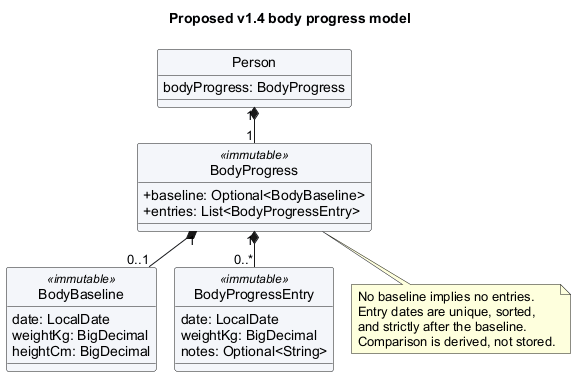
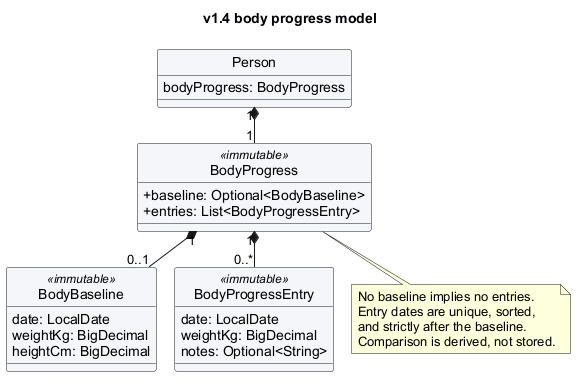
Synchronize body progress documentation with the v1.4 implementation
Describe the delivered commands, strict persistence and centre-panel integration. Refresh UML status and remove planned availability labels. Keep shared feature numbering unchanged for Win to consolidate.

Refs #201, #197.

Changed region(s): [[0.2769, 0.0311, 0.7077, 0.0622]]

diff --git a/docs/DeveloperGuide.md b/docs/DeveloperGuide.md
@@ -281,17 +281,17 @@ Parsers require each mandatory prefix exactly once, reject repeated or unknown p
 
 The client card shows a single membership tag reading `NAME Member: COUNT sessions left`, with ` [expires YYYY-MM-DD]` appended when an expiry exists. The tag wraps within the card, so a long plan name does not push the balance or expiry outside it. An unassigned client shows no membership tag. Command messages and error behavior follow the [Feature 7 specification](featureSpecs.md#feature-7-membership-plan).
 
-### [Planned v1.4] Body progress tracker
+### Body progress tracker
 
-**Design status:** This is a proposed implementation for the body-progress assignment, not a description of code already merged. The [Feature 10 contract](featureSpecs.md#feature-10-body-progress-tracker) and [planned UG section](UserGuide.md#body-progress-tracker-planned-for-v14) define user-visible behavior. Keep these documents synchronized as implementation increments land. The four required capabilities are baseline measurements, dated weight/notes, complete history and latest-to-baseline comparison. Progress-entry correction/deletion is part of the same feature.
+Implemented for v1.4. The [feature contract](featureSpecs.md#feature-10-body-progress-tracker) and [User Guide](UserGuide.md#body-progress-tracker) define user-visible behavior. The tracker supports baseline measurements, dated weight/notes, complete history, latest-to-baseline comparison, and correction/deletion. Feature numbering remains unchanged here pending the shared specification consolidation by the document owner.
 
 #### Ownership and invariants
 
-Proposed model names below are design targets. Each `Person` owns one immutable `BodyProgress` aggregate, initially empty. An optional `BodyBaseline` contains `LocalDate date`, `BigDecimal weightKg` and `BigDecimal heightCm`. Each immutable `BodyProgressEntry` contains a date, exact weight and optional notes. The aggregate defensively copies its entry collection and exposes an unmodifiable list in date order.
+Each `Person` owns one immutable `BodyProgress` aggregate, initially empty. An optional `BodyBaseline` contains `LocalDate date`, `BigDecimal weightKg` and `BigDecimal heightCm`. Each immutable `BodyProgressEntry` contains a date, exact weight and optional notes. The aggregate defensively copies its entry collection and exposes an unmodifiable list in date order.
 
-<img src="images/BodyProgressClassDiagram.png" alt="Proposed body progress model: a Person owns a BodyProgress aggregate with an optional baseline and dated entries" width="760" />
+<img src="images/BodyProgressClassDiagram.png" alt="Body progress model: a Person owns a BodyProgress aggregate with an optional baseline and dated entries" width="760" />
 
-The proposed model class diagram deliberately omits unrelated `Person` fields. It does not replace the shared Model diagram maintained by other members.
+The model class diagram deliberately omits unrelated `Person` fields. It does not replace the shared Model diagram maintained by other members.
 
 Aggregate invariants:
 
@@ -302,21 +302,21 @@ Aggregate invariants:
 * Baseline replacement retains entries and must validate its candidate date against **all** retained entries. Never silently drop or re-date history.
 * Same-date `bodylog` replaces the complete entry, including clearing notes when omitted. An exact duplicate is rejected before replacement. `bodydelete` cannot remove the baseline.
 
-Prefer `Person.withBodyProgress(updated)` as the body mutation path; it copies every unrelated field. Update all other client reconstruction/copy paths to preserve this aggregate, including test builders and later membership/health/workout-history fields. Include it in full value equality/hashCode, but do not change client identity solely because measurements changed. Deleting/clearing clients removes their owned aggregates; catalog operations preserve them.
+`Person.withBodyProgress(updated)` copies every unrelated field. Existing client reconstruction paths and `PersonBuilder` retain the tracker. Full person equality/hashCode include it; client identity does not depend on measurements. Deleting/clearing clients removes their owned aggregates; catalog operations preserve them.
 
 #### Commands, parsing and UI requests
 
-Proposed command/parser pairs are `BodyBaselineCommand` / `BodyBaselineCommandParser` (`bodybase`), `BodyLogCommand` / `BodyLogCommandParser` (`bodylog`), `BodyHistoryCommand` / `BodyHistoryCommandParser` (`bodyhistory`), `BodyCompareCommand` / `BodyCompareCommandParser` (`bodycompare`) and `BodyDeleteCommand` / `BodyDeleteCommandParser` (`bodydelete`). `BodyHistoryCommand` and `BodyCompareCommand` are queries and leave domain data unchanged; the three mutation classes create complete candidates before `Model#setPerson`.
+Command/parser pairs are `BodyBaselineCommand` / `BodyBaselineCommandParser` (`bodybase`), `BodyLogCommand` / `BodyLogCommandParser` (`bodylog`), `BodyHistoryCommand` / `BodyHistoryCommandParser` (`bodyhistory`), `BodyCompareCommand` / `BodyCompareCommandParser` (`bodycompare`) and `BodyDeleteCommand` / `BodyDeleteCommandParser` (`bodydelete`). `BodyHistoryCommand` and `BodyCompareCommand` are queries and leave domain data unchanged; the three mutation classes create complete candidates before `Model#setPerson`.
 
-Use one reusable body parsing helper for index, strict decimal syntax, dates, notes and prefix validation. Reserve alphabetic `PREFIX/` tokens only at argument boundaries; preserve `km/day` inside notes. Reject duplicate/unknown prefixes and raw nonprintable characters before normalization. Do not lowercase values or collapse notes' internal spacing. Recognize only the command's allowed prefixes. Tests must use the public command router as well as individual parsers so trimming at the router cannot hide a trailing newline.
+The reusable `BodyParserUtil` and `BodyMeasurements` helpers handle index, strict decimal syntax, dates, notes and prefix validation. Reserve alphabetic `PREFIX/` tokens only at argument boundaries; preserve `km/day` inside notes. Reject duplicate/unknown prefixes and raw nonprintable characters before normalization. Do not lowercase values or collapse notes' internal spacing. Recognize only the command's allowed prefixes. Tests must use the public command router as well as individual parsers so trimming at the router cannot hide a trailing newline.
 
 Date checks use an injectable `Clock` with the local zone, not fixed test dates or a global mutable clock. Validate future-date restrictions against the execution date (including if midnight passes after parsing). Load checks use the same clock policy. The model also validates structural, measurement and cross-date invariants independently of parsers. Exceptions handle bad user/stored input; assertions are only appropriate for internal assumptions after validation.
 
 Resolve indexes against `getFilteredPersonList()` exactly once before mutation. Do not reset the predicate to show all clients. `bodyhistory` and `bodycompare` should select/reveal the requested client even for valid empty-data states; invalid indexes must not change the UI.
 
-Proposed UI handoff: extend `CommandResult` with an optional typed `BodyProgressViewRequest` containing the resolved target `Person` and section (`HISTORY` or `COMPARISON`). Mutations request the updated client; queries request the existing client. Preserve the existing constructors/defaults and include the request in result equality/hashCode/tests. This is a **new integration point to implement**, not an existing API. `MainWindow` consumes the request only after `LogicManager.execute` returns successfully, selects the target in `PersonListPanel`, and reveals the section. Do not pass the numeric index on for later re-resolution against a potentially changed list, and do not mutate domain data to implement selection.
+`CommandResult` carries an optional typed `BodyProgressViewRequest` containing the resolved target `Person` and section (`HISTORY` or `COMPARISON`). Mutations request the updated client; queries request the existing client. Existing constructors retain an empty request by default; result equality and hashCode include the optional request. `MainWindow` consumes the request only after `LogicManager.execute` returns successfully, selects the target in `PersonListPanel`, and reveals the section. Do not pass the numeric index on for later re-resolution against a potentially changed list, and do not mutate domain data to implement selection.
 
-Show baseline, all entries and comparison in the selected client's existing scrollable details area. Observe selection and client replacement so every mutation, including deletion of the latest entry, refreshes the derived display. Clear stale rows, notes and comparison fields on selection changes. Wrap maximum-length notes and constrain controls to available width; use vertical scrolling rather than `sizeToScene()`/automatic window resizing. Coordinate placement with the separate UI-redesign PR without deferring the functional v1.4 view.
+`BodyProgressPanel` renders baseline, all entries and comparison in the centre column's `ClientDetailPanel`. The body card scrolls internally, and the centre details column scrolls when its content exceeds the available height. `MainWindow` observes selection/client replacement and consumes successful typed requests, then `ClientDetailPanel.revealBodyProgress` reveals the card and requested section. Maximum-length notes wrap within the available width. Selection changes rebuild/clear all body fields; the window never resizes automatically. All five commands are registered in `CommandCatalog` for usage hints and help.
 
 #### Deriving history and comparison
 
@@ -324,7 +324,7 @@ Build the view from the aggregate on demand. Baseline is separate from the progr
 
 #### Persistence schema and backward compatibility
 
-Proposed `JsonAdaptedBodyProgress`, `JsonAdaptedBodyBaseline` and `JsonAdaptedBodyProgressEntry` adapters add a nested `bodyProgress` field to each JSON person. There is no shared catalog or cross-client reference. A populated example is:
+`JsonAdaptedBodyProgress`, `JsonAdaptedBodyBaseline` and `JsonAdaptedBodyProgressEntry` adapters add a nested `bodyProgress` field to each JSON person. There is no shared catalog or cross-client reference. A populated example is:
 
 ```json
 {
@@ -350,19 +350,19 @@ Load then sort valid entries by date. On save, emit the canonical date order. Ro
 
 #### Atomic mutation, rollback and integration
 
-For each mutation, take/retain the existing complete address-book snapshot, validate all requested fields and the proposed aggregate, replace the target client, and let the existing atomic storage boundary commit. On `IOException`, restore the snapshot and report `The body progress change could not be saved. No changes were made.` A body-mutation marker or equivalent mapping can supply this specific message; read-only queries should not be classified as mutations merely to reuse it. Existing application-wide autosave behavior need not change for this feature, but history/comparison must leave all domain data unchanged.
+For each mutation, take/retain the existing complete address-book snapshot, validate all requested fields and the proposed aggregate, replace the target client, and let the existing atomic storage boundary commit. On `IOException`, restore the snapshot and report `The body progress change could not be saved. No changes were made.` `BodyMutationCommand` identifies the three mutations for this message mapping; read-only queries should not be classified as mutations merely to reuse it. Existing application-wide autosave behavior need not change for this feature, but history/comparison must leave all domain data unchanged.
 
-<img src="images/BodyProgressSaveSequence.png" alt="Proposed body mutation sequence with validation, atomic save and rollback on IOException" width="820" />
+<img src="images/BodyProgressSaveSequence.png" alt="Body mutation sequence with validation, atomic save and rollback on IOException" width="820" />
 
-The sequence diagram abstracts parsing and the actual filesystem temporary-file/move implementation. Its `commit` arrow represents the existing `Storage.saveAddressBook` boundary. Return a display request only on successful completion; an exception must not reveal or later persist a rejected candidate. Do not fire irreversible UI/history side effects during command execution before saving.
+The sequence diagram abstracts parsing and the actual filesystem temporary-file/move implementation. Its save arrow represents the existing `Storage.saveAddressBook` boundary. Return a display request only on successful completion; an exception must not reveal or later persist a rejected candidate. Do not fire irreversible UI/history side effects during command execution before saving.
 
 Snapshots, `AddressBook` copy/reset/equality, `Person` builders and any future shared undo/redo history must retain body data together with every other feature. This design adds no independent tracker undo stack; do not claim general undo/redo support until the shared implementation is integrated and tested. Body logging is independent of workout logging and never deducts membership sessions.
 
 #### Implementation increments and validation
 
-Implement and review in increments: (1) immutable model/adapters and legacy/invalid-file tests, (2) baseline/log/delete commands and rollback integration, (3) query/UI handoff and readable display. Keep the feature spec, UG and this DG aligned; remove "planned" labels only after the advertised behavior is actually delivered. These increments together, not just a foundation model, complete the assigned v1.4 scope.
+Implementation commits cover: (1) immutable model/adapters and legacy/invalid-file tests, (2) baseline/log/delete commands and rollback integration, (3) query/UI handoff and readable display. The feature spec, UG and this DG describe the complete runtime companion PR. Merge the runtime PR before this documentation update. These increments together, not just a foundation model, complete the assigned v1.4 scope.
 
-Automated evidence should cover:
+Automated coverage in `BodyProgressTest`, `JsonAdaptedBodyProgressTest`, `BodyProgressIntegrationTest` and `BodyProgressPanelTest` exercises:
 
 * Parser/router boundaries: zero/signed/oversized and filtered indexes; missing/repeated/unknown prefixes; newline preservation; leap/impossible/future dates; decimal syntax/bounds; Unicode code-point note limits and nonprintables.
 * Aggregate transitions: create/replace baseline; invalid correction keeps all entries; create/replace/delete entry; notes clearing; exact duplicates versus case-only note edits; duplicate dates; sorted backdating; independent clients.
@@ -371,7 +371,7 @@ Automated evidence should cover:
 * Fault injection for every mutation form (including both creation and replacement): unchanged model/filter/catalogs and original file bytes, cleaned temporary files, and a later successful command not persisting rejected values.
 * UI selection/refresh, invalid-index stability, maximum-length notes and supported narrow-window layout; confirm target/notes/delta are not stale when switching clients or after failed saves.
 
-The manual scenarios in the appendix complement automated tests; they are planned acceptance checks, not evidence of tests already run.
+The manual scenarios in the appendix complement automated tests. Runtime validation includes the full Gradle test/Checkstyle suite and the packaged application smoke test; the UI tests exercise command entry and produce a minimum-window screenshot for visual inspection.
 
 ### \[Proposed\] Undo/redo feature
 
@@ -778,7 +778,7 @@ The first increment stores an immutable `TrainingSession` (date/time and locatio
 
     Use case resumes at step 3.
 
-**Use case: UC10 - Record starting body measurements [planned v1.4]**
+**Use case: UC10 - Record starting body measurements**
 
 **MSS**
 
@@ -796,7 +796,7 @@ Use case ends.
 * 3b. The baseline is identical: Fittix reports that it is already current. Use case ends.
 * 3c. Saving fails: Fittix reports the body-save error and retains the previous model and file. Use case ends.
 
-**Use case: UC11 - Record or correct dated body progress [planned v1.4]**
+**Use case: UC11 - Record or correct dated body progress**
 
 **Precondition:** The client has a body baseline.
 
@@ -818,7 +818,7 @@ Use case ends.
 * 4a. Saving fails: Fittix reports the body-save error and restores the previous model/file. Use case ends.
 * Correction alternative: Trainer deletes a progress entry by client/date; Fittix preserves the baseline and other entries and refreshes the latest comparison after saving. A missing entry or an attempt to delete the baseline is rejected. The same save-failure guarantee applies.
 
-**Use case: UC12 - View complete body-progress history [planned v1.4]**
+**Use case: UC12 - View complete body-progress history**
 
 **MSS**
 
@@ -833,7 +833,7 @@ Use case ends.
 * 2a. No baseline exists: Fittix shows the selected client's missing-baseline state. Use case ends.
 * 2b. Only a baseline exists: Fittix shows it and the no-progress state. Use case ends.
 
-**Use case: UC13 - Compare latest body progress with the baseline [planned v1.4]**
+**Use case: UC13 - Compare latest body progress with the baseline**
 
 **MSS**
 
@@ -1085,9 +1085,9 @@ Use a disposable address book with at least two clients.
 8. Run `addmem n/Platinum p/200 s/40`, then `clear`, then `view mem`.<br>
    Expected: `clear` deletes all clients, but the Platinum plan is still listed, confirming that clearing clients does not delete membership plans.
 
-### Body progress tracker [planned v1.4 acceptance checks]
+### Body progress tracker acceptance checks
 
-Run these once the feature is implemented, using disposable data and a correct local clock. The fixed dates below are historical; on a controlled test clock earlier than them, substitute equivalent past dates. Prepare two uniquely named clients, Priya Nair and Daniel Tan. Run `list` and use their actual displayed indexes in place of `P` and `D`. Preserve Daniel's values for cross-client checks. Start Priya with no tracker; optionally give her diet/workout/schedule/membership data to verify preservation.
+Run these using disposable data and a correct local clock. The fixed dates below are historical; on a controlled test clock earlier than them, substitute equivalent past dates. Prepare two uniquely named clients, Priya Nair and Daniel Tan. Run `list` and use their actual displayed indexes in place of `P` and `D`. Preserve Daniel's values for cross-client checks. Start Priya with no tracker; optionally give her diet/workout/schedule/membership data to verify preservation.
 
 1. Run `bodyhistory P` and `bodycompare P`, then `bodylog P d/2020-01-08 w/74.80`.<br>
    Expected: Queries select Priya and display the missing-baseline state without changing data. Logging fails with `No body baseline recorded for Priya Nair. Use bodybase first.`

diff --git a/docs/UserGuide.md b/docs/UserGuide.md
@@ -562,9 +562,9 @@ Failed membership commands leave every plan, assignment, and balance unchanged. 
 * `Cannot decrease sessions below zero. The balance remains unchanged.` and `Cannot increase sessions above 1000. The balance remains unchanged.` — adjustments past the 0 to 1000 limits.
 * `The membership change could not be saved. No plan, assignment, or balance was changed.` — the change could not be written to disk.
 
-### Body progress tracker [planned for v1.4]
+### Body progress tracker
 
-**Availability:** The commands in this section are planned for v1.4 and do not work in v1.3. They let you record starting measurements, maintain dated weight records, view history, and compare the latest weight with the starting weight. The values are trainer-entered records, not a health assessment.
+**Availability:** Available in v1.4; these commands do not work in v1.3. They let you record starting measurements, maintain dated weight records, view history, and compare the latest weight with the starting weight. The values are trainer-entered records, not a health assessment.
 
 Use the client's positive index from the **current** list, including search results. For example, after `find Priya`, index `1` means the first displayed match. Body commands preserve that filter and numbering. Command words and prefixes are lowercase and case-sensitive; each prefix can appear only once. Prefixed fields may follow the index in any order.
 
@@ -599,7 +599,7 @@ Format: `bodyhistory INDEX`
 
 Example: `bodyhistory 1`
 
-Selects that client and reveals their body-progress history in the scrollable details area. It shows the baseline separately, then **all** progress entries in date order, oldest first, with weight and notes. The baseline is not counted as an entry. Missing notes appear as `—`. Long notes wrap; scroll vertically to read older or longer records.
+Selects that client and reveals their body-progress history in the **Body progress** card in the centre details column. Scroll inside the card to read the complete history or comparison; the centre column also scrolls when needed. It shows the baseline separately, then **all** progress entries in date order, oldest first, with weight and notes. The baseline is not counted as an entry. Missing notes appear as `—`. Long notes wrap; scroll vertically to read older or longer records.
 
 Successful feedback is `Showing body progress history for NAME: N entries.` With only a baseline, it displays the baseline and `No body progress entries recorded.` With no baseline, it selects the requested client and shows `No body baseline recorded for NAME. Use bodybase first.` These empty views do not change data.
 
@@ -732,11 +732,11 @@ Action | Format, Examples
 **Increase remaining sessions** | `imem PERSON_INDEX NUMBER_TO_INCREMENT`<br> e.g., `imem 1 3`
 **Decrease remaining sessions** | `dmem PERSON_INDEX NUMBER_TO_DECREMENT`<br> e.g., `dmem 1 2`
 **Delete membership plan** | `delmem n/NAME`<br> e.g., `delmem n/Silver`
-**Body baseline (planned v1.4)** | `bodybase INDEX d/DATE w/WEIGHT_KG h/HEIGHT_CM`<br> e.g., `bodybase 1 d/2020-01-01 w/75.50 h/175`
-**Body progress record/correction (planned v1.4)** | `bodylog INDEX d/DATE w/WEIGHT_KG [n/NOTES]`<br> e.g., `bodylog 1 d/2020-01-08 w/74.80 n/Measured before breakfast`
-**Body progress history (planned v1.4)** | `bodyhistory INDEX`
-**Body progress comparison (planned v1.4)** | `bodycompare INDEX`
-**Delete body progress entry (planned v1.4)** | `bodydelete INDEX d/DATE`<br> e.g., `bodydelete 1 d/2020-01-08`
+**Body baseline (v1.4)** | `bodybase INDEX d/DATE w/WEIGHT_KG h/HEIGHT_CM`<br> e.g., `bodybase 1 d/2020-01-01 w/75.50 h/175`
+**Body progress record/correction (v1.4)** | `bodylog INDEX d/DATE w/WEIGHT_KG [n/NOTES]`<br> e.g., `bodylog 1 d/2020-01-08 w/74.80 n/Measured before breakfast`
+**Body progress history (v1.4)** | `bodyhistory INDEX`
+**Body progress comparison (v1.4)** | `bodycompare INDEX`
+**Delete body progress entry (v1.4)** | `bodydelete INDEX d/DATE`<br> e.g., `bodydelete 1 d/2020-01-08`
 **Schedule** | `schedule INDEX d/YYYY-MM-DD tm/HH:mm l/LOCATION`<br> e.g., `schedule 1 d/2099-03-15 tm/14:30 l/Main gym`
 **View schedule** | `viewschedule INDEX`<br> e.g., `viewschedule 1`
 **Help** | `help`

diff --git a/docs/featureSpecs.md b/docs/featureSpecs.md
@@ -1172,7 +1172,7 @@ Restriction categories, severity, expiry dates, meal validation, nutritional gui
 
 ## Feature 10: Body progress tracker
 
-**Status:** Planned for v1.4; this section defines the intended implementation contract. These commands are not available in v1.3. The original feature-specification PDF is not the reference for this feature.
+**Status:** Implemented for v1.4. These commands are not available in v1.3. The Markdown specification is the reference for this feature.
 
 ### 1. Feature and scope
 
@@ -1276,7 +1276,7 @@ Success: `Deleted body progress for NAME on DATE.` Deleting the last entry retai
 
 ### 10. Display, persistence and failures
 
-The selected client's scrollable details area contains baseline, history and comparison sections. `bodyhistory` and `bodycompare` select the requested client and reveal the relevant section **without changing the current client filter or numbering**. Successful mutations select that client and refresh the body-progress display after saving. Selection changes clear stale fields, notes and comparison values. No body data shows the missing-baseline state. Invalid commands and failed saves must not send a success/display request or leave rejected values visible.
+The selected client's centre details column contains a scrollable Body progress card with baseline, history and comparison sections. The centre column itself scrolls when needed so the command area remains visible at the minimum supported window size. `bodyhistory` and `bodycompare` select the requested client and reveal the relevant section **without changing the current client filter or numbering**. Successful mutations select that client and refresh the body-progress display after saving. Selection changes clear stale fields, notes and comparison values. No body data shows the missing-baseline state. Invalid commands and failed saves must not send a success/display request or leave rejected values visible.
 
 ```text
 Priya Nair — BODY PROGRESS
@@ -1288,7 +1288,7 @@ Latest comparison: 2020-01-15
 75.50 kg -> 74.20 kg | Change: -1.30 kg
 ```
 
-Keep valid maximum-length text readable at the application's minimum supported window size, with wrapping/scrolling rather than automatically resizing the window. A later UI redesign may change placement, but must preserve all specified data, empty states and targeting behavior.
+Keep valid maximum-length text readable at the application's minimum supported window size, with wrapping/scrolling rather than automatically resizing the window. The redesigned three-column UI preserves all specified data, empty states and targeting behavior.
 
 Body data belongs to a client. Contact edits, diet/workout changes, remarks, scheduling, membership changes and workout logging preserve it. Body commands preserve those other fields and never alter membership sessions or payments. Deleting a client removes their body data; `clear` removes body data with its clients and follows the shared catalog-preservation rule. `clearmem` does not alter body data.
 
